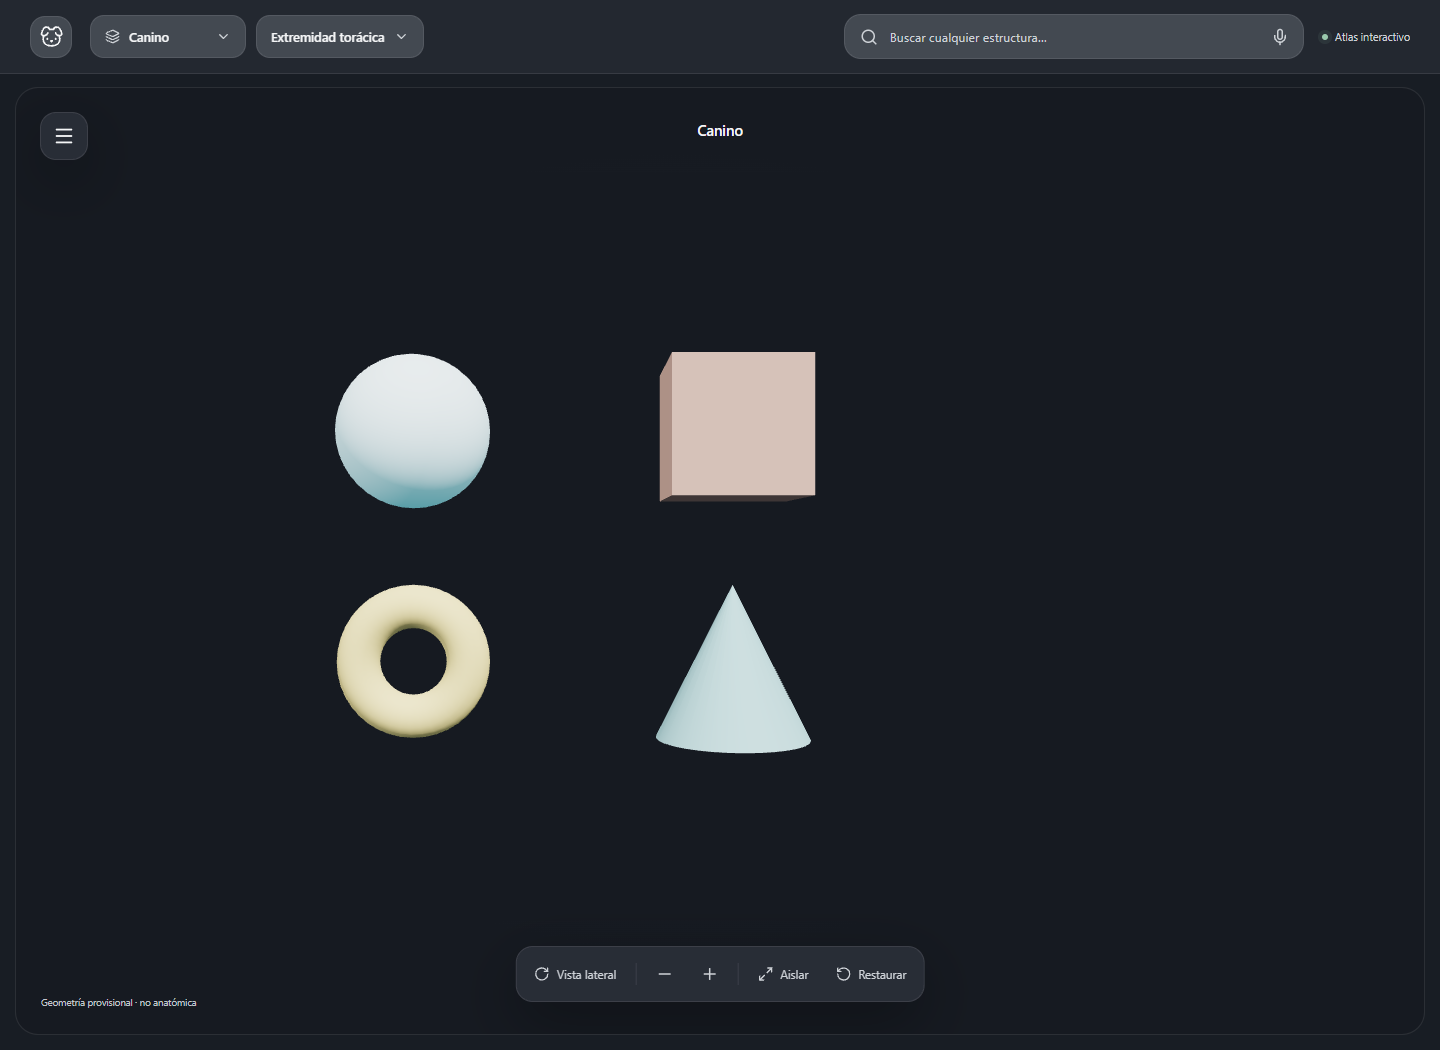
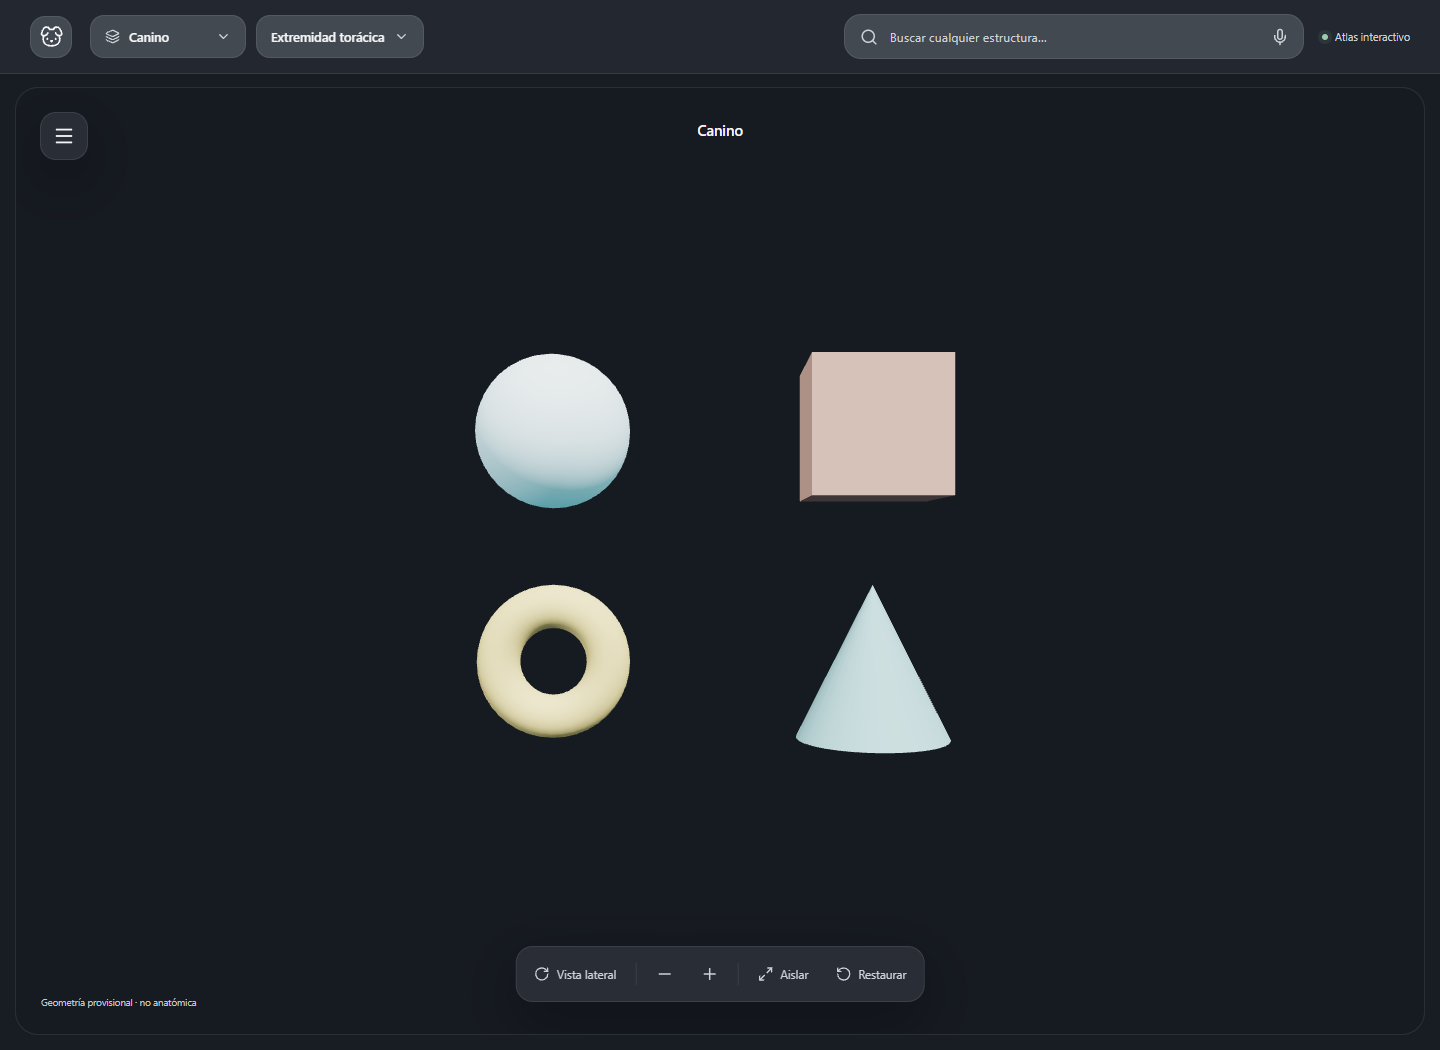
docs(plan): resumen de lo logrado y pendientes al cierre nocturno

Changed region(s): [[0.2188, 0.3352, 0.6875, 0.4876], [0.2188, 0.5486, 0.6562, 0.7314]]

diff --git a/plandeimplementacion.md b/plandeimplementacion.md
@@ -311,3 +311,49 @@ npm run test:e2e            # desktop + tablet + móvil (emulados)
 | N3 | Felino con superficies parciales seleccionables y canino privado diagnosticado; paquetes externos listos | Sí, si la segmentación da piezas defendibles |
 | N4 | Escala acreditada, canino publicable y piezas «hueso geométrico suficiente» | Requiere medidas, licencia o fuente nueva |
 | N5 | Revisión anatómica humana y despliegue público | Requiere revisor y autorización del usuario |
+
+---
+
+## 10. Estado al cierre de la sesión nocturna (2026-11-01)
+
+El usuario detuvo la ejecución en este punto. Todo lo listado como logrado está commiteado y subido a `origin/main`, con el gate completo y el E2E verificados en el último commit (`8c8088c`).
+
+### Logrado
+
+| Fase | Resultado | Commits |
+|---|---|---|
+| FS Skills | 13 skills propias (Blender headless, segmentación, glTF, visor R3F, sistema de diseño UI V2, UX del visor, WCAG 3D, i18n, evidencia por campo, NAV, Playwright WebGL, gate y commits, coordinación multiagente) y 2 oficiales de Anthropic revisadas. Índice en `.agents/skills/README.md` | 388ce11 |
+| F0/F1 | EOL normalizado, línea base medida, `merge-batches` (reciprocidad, conserva modelIds/photoRefs), `gate`, `win.sh` (node_modules de Windows) | 388ce11, d6dcb14 |
+| F2 fichas felinas | L-F1..L-F5: miembros, atlas/axis, tórax, sacro y cabeza (cráneo, mandíbula, dientes y 11 huesos craneales) | 2884467, 8c8088c |
+| F6 fichas caninas | L-C1..L-C5: miembros, columna, tórax, cráneo (13 huesos) y músculos del miembro torácico | 3ac2e20, 8c8088c |
+| F13 revisión adversarial | 2 rondas (84 y 97 evidencias muestreadas); 5 bloqueantes y 20 no bloqueantes corregidos | 1b7751e, 8c8088c |
+| F3/F4 segmentación felina | 13 superficies parciales y un remanente (suma de caras 74.235), matriz geométrica de 323 filas, ejes; lado y escala `unknown` | d982dd5 |
+| F5 selección felina | Escápula, húmero, fémur, coxal y cabeza seleccionables con aviso «superficie parcial · revisión pendiente»; aislar, ocultar y opacidad por pieza; la búsqueda encuadra la pieza | 6a49ceb |
+| F7 canino privado | Diagnóstico de los STL de 3DExport (169 componentes, 32 propuestas); nada publicado | 00c1a14 |
+| F8 canino en el visor | Cráneo de perro Zenodo 10327538 (CC BY 4.0, verificado en origen y réplica), derivado de 200k triángulos con desviación medida, atribución visible | 93f10a0 |
+| F9 capas | Filtros por sistema y tejido; capas sin geometría deshabilitadas con el motivo visible | 7ca2ab9 |
+| F10 galería | 7 imágenes locales de Wikimedia Commons (CC0/CC BY-SA, SHA verificado) y 7 enlaces abiertos; `validate:media` estricto | 8c8088c |
+| F11 a11y/i18n/rendimiento | Teclado, ARIA, aria-live, 44 px táctil, movimiento reducido, ~120 claves ES/EN, DPR adaptativo (corrige un bug de R3F) | 14c7bdd, 7ca2ab9 |
+| F14 paquetes externos | Revisión humana ampliada, solicitudes de medidas y de licencia, nota de decisión sobre el CT (nada enviado) | 96edc62 |
+
+**Cifras finales verificadas:** 109 estructuras (todas `pending`), 34 relaciones, 20 fuentes, 3 modelos 3D disponibles (gato corporal, gato con superficies seleccionables, cráneo de perro). Pruebas: lint, typecheck, 185 unitarias, 70 HTTP, 38 contratos, validadores, build y **E2E 48/48** (escritorio, tablet y móvil emulados).
+
+### Falta
+
+**Software (sin bloqueos externos):**
+1. Galería: etiqueta propia «espécimen osteológico» (hoy aparece como «Fotografía de disección») y enlace de licencia clicable en `ReferenceGallery.tsx`. También que el filtro `region=shoulder/brachium` devuelva las referencias del miembro torácico.
+2. `photoRefs` recíprocos en `structures.json` (la lista exacta está en `docs/phase3/gallery-media-2026-11-01.md`; son opcionales).
+3. Lighthouse y perfil de rendimiento: el perfil de `chrome-agente` estuvo bloqueado durante toda la sesión.
+4. Compresión de los GLB (meshopt/KTX2): propuesta en `docs/phase3/performance-2026-10-31.md`; requiere fijar la versión de `gltf-transform`.
+5. Decisiones de esquema: tipo propio para dientes (hoy `kind: bone`), enlace entre fichas de conjunto y fichas individuales (cráneo↔huesos, mano↔carpianos), `has3DModel` para superficies parciales.
+6. Clic directo en el canvas cubierto en E2E (hoy se prueba con la lista accesible equivalente); foco que se conserve al cambiar de especie.
+7. Fichas restantes: vértebras torácicas, lumbares y caudales (serie sin ficha, por decisión), lagrimal, etmoides, vómer y pterigoideo; campo `vascularSupply` en casi todas; músculos y nervios felinos; tejidos blandos.
+8. F12 (QA integral final con recorrido manual) y F15 (cierre formal y entrega).
+
+**Bloqueado por terceros o por decisión del usuario:**
+- Revisión anatómica humana cualificada (todo sigue `pending`).
+- Licencia web del esqueleto canino de 3DExport (borrador de solicitud listo, sin enviar).
+- Medidas del espécimen Tavernier, necesarias para la escala del gato.
+- Autorizar la descarga de los volúmenes CT felinos (CC0, 51 GB): ver `docs/phase3/requests/decision-ct-felino.md`.
+- Decidir la licencia en conflicto de El-Ghazali 2018 (CC BY en el PDF del editor, CC BY-NC en PMC).
+- Despliegue público (no autorizado).
